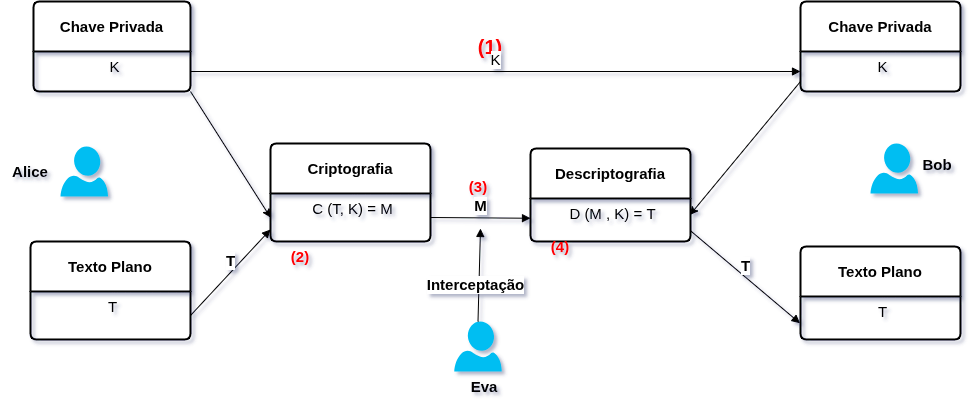
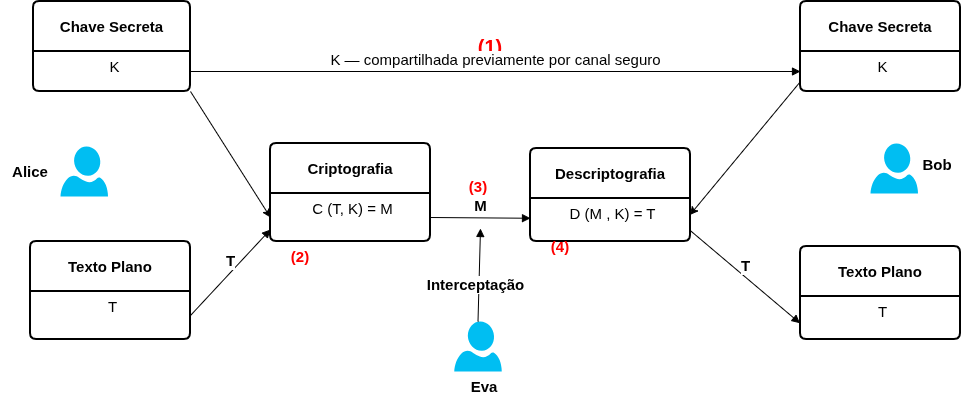
Clarifica diagramas e exemplos de criptografia

diff --git a/conceitos/criptografia.tex b/conceitos/criptografia.tex
@@ -153,15 +153,16 @@ A Figura \ref{fig:algoritmo_simetrico} ilustra o funcionamento do algoritmo de c
 \textbf{Funcionamento do Algoritmo de Criptografia Simétrico}
 
 \begin{enumerate}
-	\item Alice e Bob primeiro estabelecem uma chave secreta(K) que ambos irão usar para criptografar e descriptografar as mensagens.
+	\item Alice e Bob precisam obter a mesma chave secreta (K) por um mecanismo seguro antes de trocar mensagens. O comando abaixo gera uma chave aleatória de 256 bits para o exemplo; executá-lo em Alice não entrega automaticamente uma cópia a Bob.
 	\begin{tcolorbox}[width=\textwidth]
 		{\normalsize
 			\begin{verbatim}
+			$ umask 077
 			$ openssl rand -hex 32 > K.hex
 			\end{verbatim}
 		}
 	\end{tcolorbox}
-	\item Quando Alice deseja enviar o Texto Plano(T) confidencial para Bob, ela utiliza o algoritmo de Criptografia(C), a Chave Secreta(K) e um IV aleatório para transformar o Texto Plano(T) no Texto Cifrado(M). Este exemplo demonstra apenas confidencialidade; em produção, deve-se usar cifra autenticada ou adicionar um MAC.
+	\item Quando Alice deseja enviar o Texto Plano(T) para Bob, ela utiliza AES-256-CBC, a Chave Secreta(K) e um IV aleatório para gerar o Texto Cifrado(M). O IV não é secreto e deve acompanhar o texto cifrado; gere um IV novo e imprevisível para cada cifragem. Este exemplo demonstra apenas confidencialidade: em produção, prefira uma cifra autenticada (AEAD), como AES-GCM, ou combine CBC com um MAC usando uma chave independente e autentique o IV e o texto cifrado antes de decifrar.
 	\begin{tcolorbox}[width=\textwidth]
 		{\normalsize
 			\begin{verbatim}
@@ -172,7 +173,7 @@ A Figura \ref{fig:algoritmo_simetrico} ilustra o funcionamento do algoritmo de c
 			\end{verbatim}
 		}
 	\end{tcolorbox}
-	\item Alice então envia Texto Cifrado(M) para Bob através de um canal de comunicação inseguro. Eva, que está tentando interceptar a comunicação, pode conseguir acessar o Texto Cifrado(M), mas sem a chave secreta(K), ela não consegue compreender a mensagem original.
+	\item Alice envia o Texto Cifrado(M) e o IV para Bob através de um canal de comunicação inseguro. Se Eva apenas interceptar esses dados e a chave permanecer secreta, ela não deverá conseguir recuperar a mensagem original. Como CBC sozinho não autentica os dados, um atacante ativo ainda pode alterar o texto cifrado ou o IV sem que a alteração seja detectada de forma confiável.
 	\item Ao receber o Texto Cifrado(M), Bob utiliza o mesmo algoritmo de Descriptografia(D) e a Chave Secreta(K) para transformar o Texto Cifrado(M) de volta ao Texto Plano(T).
 	\begin{tcolorbox}[width=\textwidth]
 		{\normalsize
@@ -184,9 +185,9 @@ A Figura \ref{fig:algoritmo_simetrico} ilustra o funcionamento do algoritmo de c
 	\end{tcolorbox}
 \end{enumerate}
 
-A principal vantagem dos algoritmos de criptografia simétrica é sua eficiência e velocidade, especialmente em comparação com os algoritmos de criptografia assimétrica. No entanto, um dos desafios mais significativos é a distribuição segura da chave secreta. Se Eva conseguir interceptar ou descobrir a chave secreta, toda a comunicação entre Alice e Bob será comprometida.\\
+A principal vantagem dos algoritmos de criptografia simétrica é sua eficiência e velocidade, especialmente em comparação com os algoritmos de criptografia assimétrica. No entanto, Alice e Bob precisam estabelecer a chave secreta com segurança. Se Eva descobrir essa chave, poderá decifrar as mensagens protegidas por ela.\\
 
-Pelo motivo descrito acima, é essencial que Alice e Bob utilizem métodos seguros para compartilhar a chave secreta e garantam que ela permaneça protegida contra acessos não autorizados.\\
+Esses comandos são didáticos: o arquivo K.hex contém a chave em claro, e a opção \texttt{-K} passa a chave como argumento do processo, onde ela pode ficar visível durante a execução. Em produção, use uma biblioteca criptográfica e um mecanismo de armazenamento e uso de chaves que evitem essa exposição. Alice e Bob podem provisionar a chave por um canal protegido ou estabelecê-la por um protocolo autenticado de acordo de chaves.\\
 
 \subsection{Algoritmo Assimétrico}
 
@@ -223,7 +224,8 @@ O algoritmo de criptografia assimétrica é uma técnica fundamental no campo da
 		}
 	\end{tcolorbox}
 	\item Tanto Alice quanto Bob enviam as suas respectivas chaves públicas, KPuAlice e KPuBob, para um servidor de chave pública;
-	\item Quando Alice deseja enviar um Texto Plano (T) curto para Bob, ela utiliza a Chave Pública do Bob (KPuBob.pem) para gerar o Texto Cifrado (M). Com RSA de 2048 bits e OAEP/SHA-256, a entrada deve ter no máximo 190 bytes; para dados maiores, usar criptografia híbrida.
+	\item Antes de usar a chave pública recuperada do servidor, Alice deve verificar por um meio confiável que ela realmente pertence a Bob, por exemplo, validando um certificado digital ou comparando sua impressão digital por um canal autenticado. A presença da chave no servidor, por si só, não comprova essa associação: um atacante que substitua a chave de Bob pela sua própria pode interceptar a comunicação;
+	\item Quando Alice deseja enviar um Texto Plano (T) curto para Bob, ela utiliza a Chave Pública do Bob (KPuBob.pem) para gerar o Texto Cifrado (M). Com RSA de 2048 bits e OAEP/SHA-256, a entrada deve ter no máximo 190 bytes. Para mensagens maiores, usa-se criptografia híbrida: Alice cifra a mensagem com uma chave simétrica aleatória usando uma cifra autenticada, como AES-GCM, e cifra essa chave simétrica com a chave pública de Bob.
 	\begin{tcolorbox}[width=\textwidth]
 		{\normalsize
 			\begin{verbatim}
@@ -243,7 +245,9 @@ O algoritmo de criptografia assimétrica é uma técnica fundamental no campo da
 	\end{tcolorbox}
 \end{enumerate}
 
-A segurança do algoritmo de criptografia assimétrica reside no fato de que, mesmo que Eva (uma personagem mal-intencionada) intercepte a mensagem criptografada, ela não conseguirá descriptografá-la sem a chave privada de Bob. Desta forma, a confidencialidade da comunicação entre Alice e Bob é mantida.\\
+Se Alice usar uma chave pública de Bob cuja associação com ele foi verificada, e Bob proteger sua chave privada, a cifragem com RSA-OAEP protege a confidencialidade contra Eva, mesmo que ela intercepte o texto cifrado. Esse fluxo, por si só, não comprova que a mensagem foi enviada por Alice: qualquer pessoa que conheça a chave pública de Bob pode cifrar mensagens para ele. Para autenticar a origem, Alice deve assinar a mensagem com sua chave privada, e Bob deve verificar a assinatura usando uma chave pública de Alice cuja associação também seja confiável.\\
+
+Na criptografia híbrida, a cifra autenticada permite detectar alterações no conteúdo cifrado, mas não identifica quem o produziu. A assinatura digital fornece essa verificação de origem, desde que a chave pública do remetente esteja autenticada.
 
 \subsection{Key-Encryption-Key (KEK)}
 
